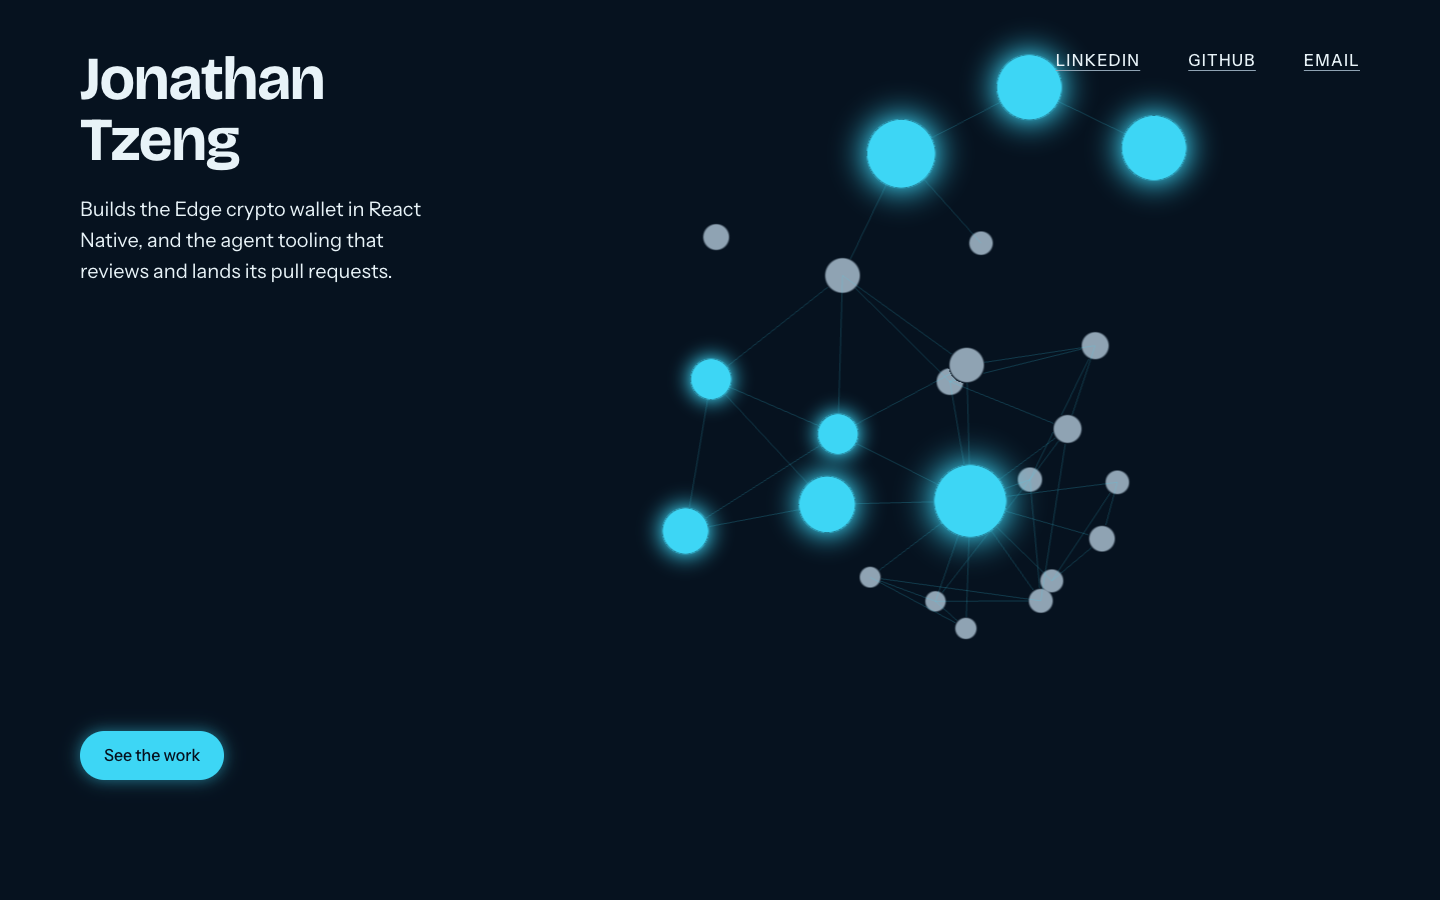
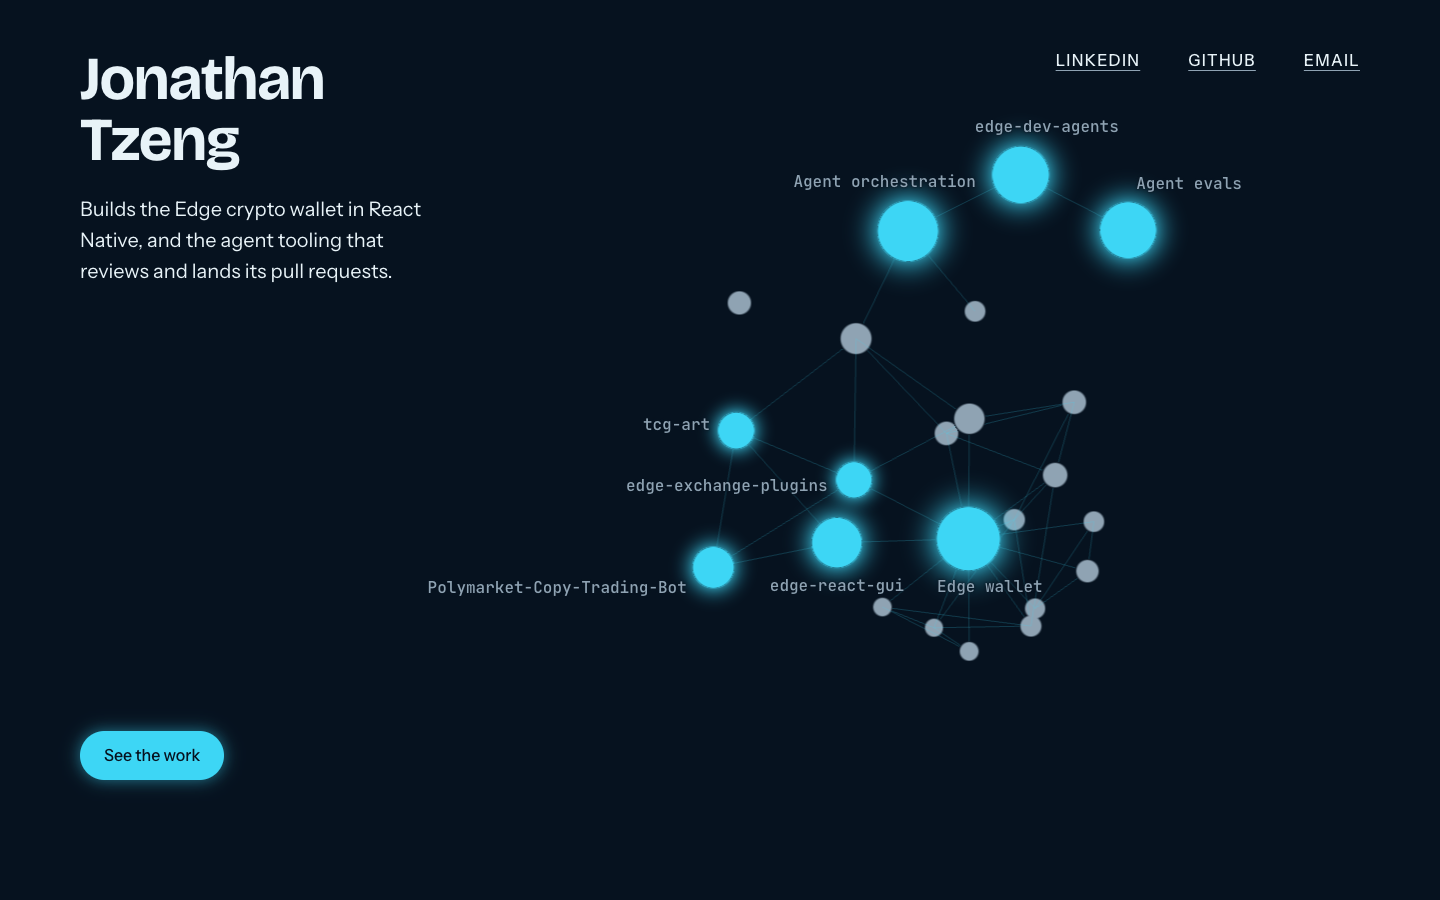
Run report and screenshots for the issue 2 rerun verification

diff --git a/docs/run-reports/issue-2-living-repo-graph-hero.md b/docs/run-reports/issue-2-living-repo-graph-hero.md
@@ -1,47 +1,54 @@
 <!-- orch -->
 # Agent run report: Living repo graph hero
 
-**Live preview: https://j0ntz-homepage-pt08gid9q-jontz.vercel.app**  |  **PR: https://github.com/j0ntz/j0ntz-homepage/pull/4**
+**Live preview: https://j0ntz-homepage-qd8mz4mir-jontz.vercel.app**  |  **PR: https://github.com/j0ntz/j0ntz-homepage/pull/4**
 
 | field | value |
 |---|---|
 | Task | #2 · https://github.com/j0ntz/j0ntz-homepage/issues/2 |
 | PR | https://github.com/j0ntz/j0ntz-homepage/pull/4 |
-| Preview | https://j0ntz-homepage-pt08gid9q-jontz.vercel.app |
+| Preview | https://j0ntz-homepage-qd8mz4mir-jontz.vercel.app |
 | Branch | jon/task-2 |
 | Verified | pass |
 | Date | 2026-09-05 |
 
 ## Summary
-The hero renders the repo graph as server-side SVG in the first frame, and the WebGL scene takes over at the same positions 0.9 to 1.5 s after navigation on the live preview. Hover lights a node and its neighbours with the mono label, click opens the repo in a new tab, tap then tap opens on mobile, and reduced motion holds the scene still. Lighthouse mobile scores 93 against the preview. The cold review of head `d7845e8` found nothing that needs a code change.
+The hero renders the repo graph as server-side SVG in the first frame and the WebGL scene takes over at the same positions about 0.2 s later on the live preview. The eight accent nodes carry their names at rest on desktop and on mobile, no two labels overlap, and none leaves the viewport. Rotation is the one control: the orbit stops under the cursor, a drag turns the graph, a flick coasts out and settles within three seconds, and the orbit is back about eight seconds after the cursor leaves. On touch a horizontal drag spins with the same momentum and a vertical swipe scrolls the page without moving the graph. Lighthouse mobile scores 94 against the preview. The cold review of head `a396e44` found nothing that needs a code change; this is the rerun after Jon's feedback comment, which the builder consumed in address round 2 and rounds 3 and 4 refined.
 
 ## What changed
-- `scripts/fetch-graph-data.mjs` and the `graph:data` script build `content/graph.json` from the GitHub API: 23 nodes (20 public repos with commits attributed to Jon, plus the three projects in `content/projects.json`), 45 edges, and a converged 3D layout. A build never calls the API.
-- `lib/graph-force.ts`, `lib/graph-scene.ts`, `lib/graph-types.ts`: the force simulation and camera constants shared by the data script, the SVG snapshot, the worker, and the scene.
-- `components/GraphSnapshot.tsx`: the SVG the server renders, one per viewport variant, every node a link.
-- `components/RepoGraph.tsx`, `components/RepoGraphCanvas.tsx`, `workers/graph-layout.worker.ts`: react-three-fiber scene with three draw calls, colors read from the CSS tokens at mount, layout ticking in a worker, orbit and parallax and hover on the main thread. Every effect returns a cleanup; the worker is terminated and the GPU buffers disposed on unmount.
-- `app/page.tsx`, `app/globals.css`, `content/site.json`: the hero zone (name at 61px, line at 20px, three links top-right, the call to action bottom-left) and the stubs for zones 2 and 3.
+- `scripts/fetch-graph-data.mjs` and the `graph:data` script build `content/graph.json` from the GitHub API: 23 nodes (20 public repos with commits attributed to Jon plus the three projects in `content/projects.json`), 45 edges, and a converged 3D layout. A build never calls the API.
+- `lib/graph-force.ts`, `lib/graph-scene.ts`, `lib/graph-types.ts`: the force simulation, the camera constants, and the label placement shared by the data script, the SVG snapshot, the worker, and the scene.
+- `components/GraphSnapshot.tsx`: the SVG the server renders, one per viewport variant, every node a link, the eight labels as HTML over it.
+- `components/RepoGraph.tsx`, `components/RepoGraphCanvas.tsx`, `workers/graph-layout.worker.ts`: react-three-fiber scene with three draw calls, colors read from the CSS tokens at mount, layout ticking in a worker, the spin state (rest orbit, drag, flick momentum, resume after idle), hover, tap-tap on touch, and the DOM label layer placed per frame clear of the discs and of the hero's text blocks. drei is not a dependency.
+- `app/page.tsx`, `app/globals.css`, `content/site.json`: the desktop hero (name at 61px, line at 20px, links top-right, call to action bottom-left, the graph shifted right and starting below the nav band) and the mobile layout (name, line, stacked links, call to action in flow, then the graph as a full-width square), plus the stubs for zones 2 and 3.
 
 ## Test evidence
-- `verify-preview.sh` result: pass against https://j0ntz-homepage-pt08gid9q-jontz.vercel.app (HTTP 200, mobile `overflowBy: 0`, "See the work" in the HTML).
-- Live scene over the DevTools protocol in headless Chrome on a hardware GPU, at 1440x900: the WebGL canvas takes over from the SVG after 1466 ms, both snapshots are then `display: none`, and the canvas fills the hero at 1440x828. Moving the mouse onto the largest node shows `Edge wallet / TypeScript · 366 commits · 691 stars · since 2026` in JetBrains Mono with a pointer cursor; a click calls `window.open` with the repo URL, `_blank`, `noopener,noreferrer`; leaving the node clears the label and the cursor.
-- At 390x844 with touch emulation: the scene takes over after 886 ms, a first tap shows the same label without opening anything, a second tap opens the repo.
-- Reduced motion (`prefers-reduced-motion: reduce`): six screenshots over seven seconds at 390 wide have the same hash, two screenshots 1.5 s apart at 1440 are the same PNG, and hover still shows the label.
-- No console errors in either run. The one warning is react-three-fiber's `THREE.Clock` deprecation notice, not from this code.
-- Lighthouse 12, mobile preset, against the live preview: performance 93, first contentful paint 1.2 s, largest contentful paint 3.1 s, total blocking time 70 ms, cumulative layout shift 0.
-- `tsc --noEmit` exits 0, `eslint` exits 0, `scripts/design-check.mjs` exits 0 on the tree (28 files). The judgment tier of `/design-check` found no violation: sizes on the scale, tokens only, no scroll-triggered motion, the one line names what he builds.
-- Screenshots committed under `docs/screenshots/`, one desktop and one mobile (~390px) capture from `verify-preview.sh`, plus the live scene at 1440x900 at rest and on hover:
+- `verify-preview.sh` result: pass against https://j0ntz-homepage-qd8mz4mir-jontz.vercel.app (HTTP 200, mobile `overflowBy: 0`, "See the work" in the HTML).
+- Live scene in headless Chrome 152 on a hardware GPU (puppeteer-core over the DevTools protocol), label positions as the proxy for rotation:
+  - 1440x900: the scene takes over 232 ms after load. At rest the labels move 33 px over 2 s; with the cursor over the graph they move 4 px over 1.5 s. A 300 px drag moves them 527 px; after release they coast 342 px in the first second, 223 px in the next two, then 6 px. Three to four seconds after the cursor leaves the graph is still (4.5 px); eight to nine seconds after it is turning again (105 px). A wheel over the graph scrolls the page and does not turn the graph.
+  - Hover on the largest node shows `Edge wallet / TypeScript · 366 commits · 691 stars · since 2026` with a pointer cursor, the click calls `window.open` with the repo URL, `_blank`, `noopener,noreferrer`, and leaving the node clears the label.
+  - 390x844 with touch: the first screen is the name, the one line, the three links, and the call to action; the graph square starts 562 px down. Eight labels, no overlaps, widest right edge 381.5 of 390. A horizontal swipe turns the graph 695 px and coasts, with the scroll position unchanged. A vertical swipe over the canvas scrolls the page 135 px and moves the graph 1.9 px net of the scroll. A first tap on a node shows the label without opening anything; a second tap opens the repo.
+  - Reduced motion at 1440: zero label movement over 3 s.
+  - 768x1024, 820x1180, 1024x768, 1280x720: every label inside the hero, nothing under the links.
+  - No console errors in any run.
+- Lighthouse 13, mobile preset, against the live preview: performance 94, first contentful paint 2.0 s, largest contentful paint 2.0 s, total blocking time 200 ms, cumulative layout shift 0.023.
+- `tsc --noEmit` exits 0, `eslint` exits 0, `scripts/design-check.mjs` exits 0 on the tree (28 files). The judgment tier of `/design-check` found no violation: every size on the scale, tokens only, no scroll-triggered motion, the one line names what he builds.
+- The PR body carries the Chrome performance trace summaries at 1440 and 390 wide.
+- Screenshots committed under `docs/screenshots/`, one desktop and one mobile (~390px) capture from `verify-preview.sh`, plus the live scene:
   - Desktop: [issue-2-desktop.png](https://github.com/j0ntz/j0ntz-homepage/blob/jon/task-2/docs/screenshots/issue-2-desktop.png)
   - Mobile: [issue-2-mobile.png](https://github.com/j0ntz/j0ntz-homepage/blob/jon/task-2/docs/screenshots/issue-2-mobile.png)
-  - 1440x900 at rest: [issue-2-desktop-1440.png](https://github.com/j0ntz/j0ntz-homepage/blob/jon/task-2/docs/screenshots/issue-2-desktop-1440.png)
+  - 1440x900 at rest with the eight labels: [issue-2-desktop-1440.png](https://github.com/j0ntz/j0ntz-homepage/blob/jon/task-2/docs/screenshots/issue-2-desktop-1440.png)
   - 1440x900 on hover: [issue-2-desktop-1440-hover.png](https://github.com/j0ntz/j0ntz-homepage/blob/jon/task-2/docs/screenshots/issue-2-desktop-1440-hover.png)
+  - 390 graph section at rest: [issue-2-mobile-graph.png](https://github.com/j0ntz/j0ntz-homepage/blob/jon/task-2/docs/screenshots/issue-2-mobile-graph.png)
+  - 390 after the first tap: [issue-2-mobile-tap.png](https://github.com/j0ntz/j0ntz-homepage/blob/jon/task-2/docs/screenshots/issue-2-mobile-tap.png)
 
 ## Decisions (defaults taken)
-- The graph has 23 nodes, under the contract's 40 to 60 on desktop, because that is every public repo GitHub attributes commits by `j0ntz` to plus the three named projects. The issue forbids inventing projects, and the builder's issue comment lists what was excluded and why. Reversible by making a private repo public or adding an entry to `content/projects.json`, then `npm run graph:data`.
-- `project:agent-evals` links one repo (`edge-dev-agents`) and so sits beside it at the same size. Flagged for Jon on the issue; drop it or point it at a dedicated repo if it reads as a duplicate.
+- The graph has 23 nodes, under the contract's 40 to 60 on desktop, because that is every public repo GitHub attributes commits by `j0ntz` to plus the three named projects. The issue forbids inventing projects; the builder's issue comment lists what was excluded and why. Reversible by making a private repo public or adding an entry to `content/projects.json`, then `npm run graph:data`.
+- `project:agent-evals` links one repo (`edge-dev-agents`) and so sits beside it at the same size. Flagged for Jon on the issue.
 - The email in `content/site.json` is the address on this repo's commits, flagged for Jon to replace.
+- An owned repo counts every commit in its history, so `Polymarket-Copy-Trading-Bot` carries the 99 commits of the history it was created from. Flagged for Jon on the issue.
 
 ## Notes and follow-ups
-- The frame loop runs at full rate while the hero is scrolled out of view. Per-frame cost is small (0.35 ms scripting in the PR's trace), so it passed, but pausing the loop when the hero leaves the viewport would save battery on phones once zones 2 and 3 carry content.
-- At 1440x900 the top-right accent node's halo sits under the LinkedIn link at rest. The link stays legible and the orbit moves the node away within seconds, so it passed; if the overlap bothers Jon, a smaller `--graph-shift` or a lower graph top fixes it.
-- The Claude in Chrome extension's tab reported `visibilityState: hidden` with no animation frames, so the live checks ran through headless Chrome over the DevTools protocol with `--use-angle=metal` instead.
+- On mobile a label may sit over a neutral disc where the square is too dense to avoid one (the placer charges a small cost for it and a ground-coloured text halo keeps the strokes apart); the accent discs and the other labels are never covered.
+- The frame loop and the layout worker run while the hero is scrolled out of view. Per-frame cost is under a millisecond, so it passed; pausing both when the hero leaves the viewport would save battery on phones once zones 2 and 3 carry content.
+- The hero's first activity dates come from GitHub's commit attribution to the `j0ntz` account, so `Edge wallet` reads `since 2026` even though the Edge work predates that.
